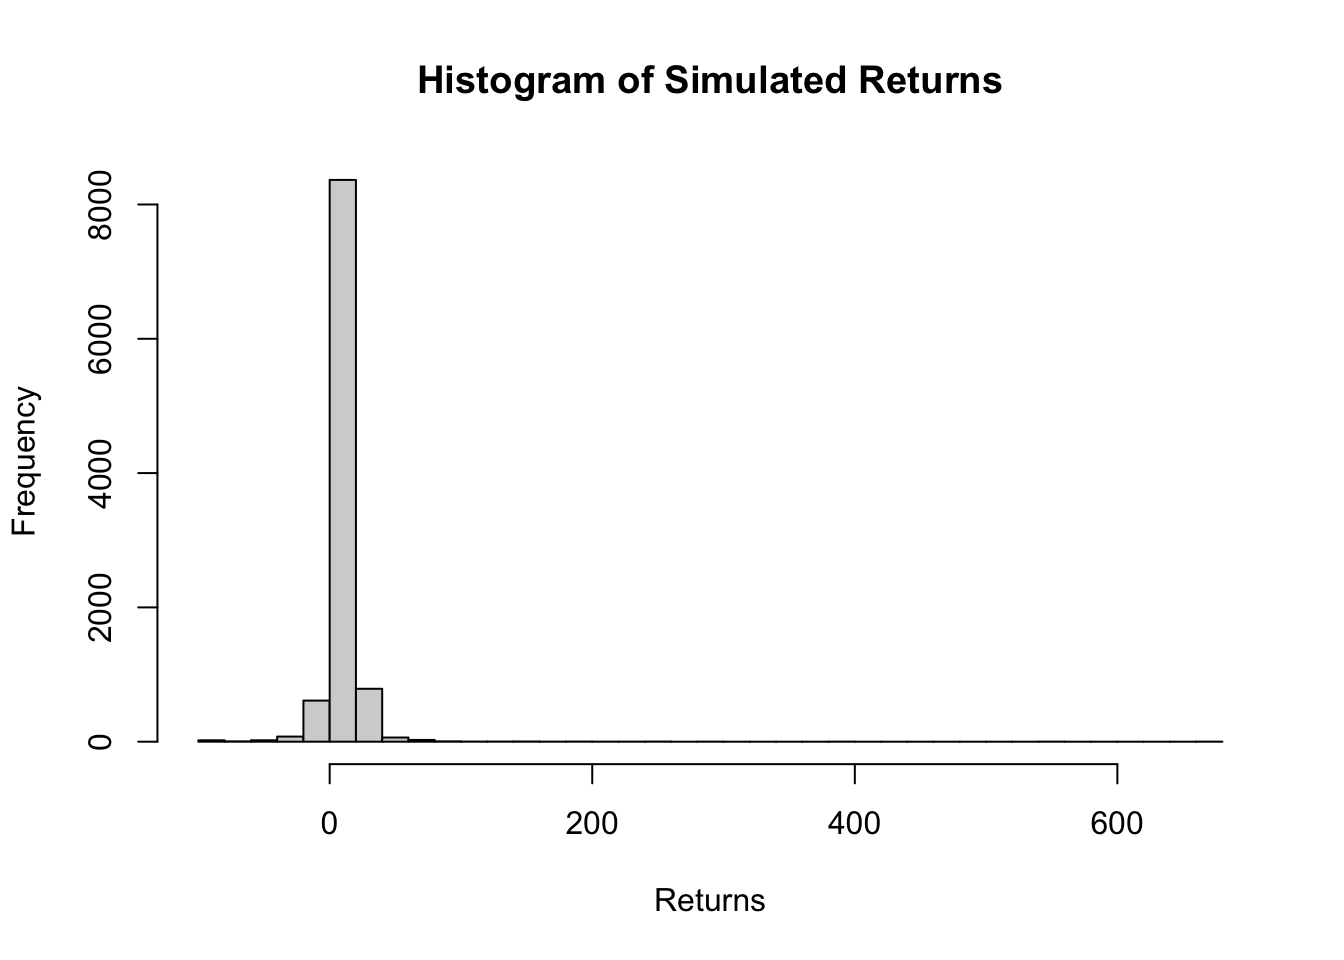
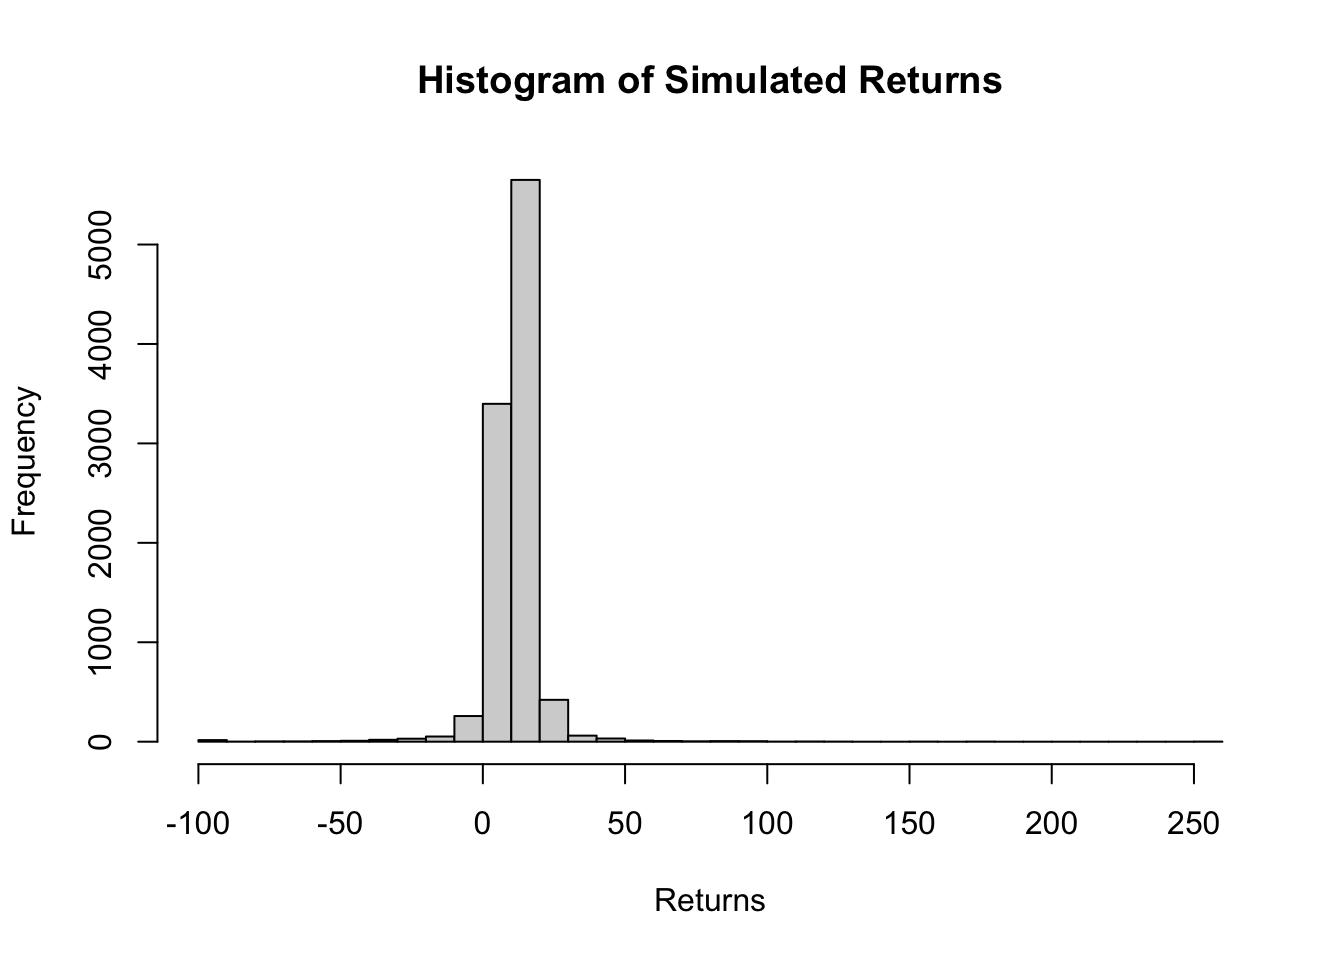
stats in drawdown

diff --git a/docs/Catallactics/Personal/levi.html b/docs/Catallactics/Personal/levi.html
@@ -954,38 +954,39 @@ cookieconsent.run({
 <div class="sourceCode cell-code" id="cb2"><pre class="sourceCode r code-with-copy"><code class="sourceCode r"><span id="cb2-1"><a href="#cb2-1" aria-hidden="true" tabindex="-1"></a><span class="fu">library</span>(stabledist)</span>
 <span id="cb2-2"><a href="#cb2-2" aria-hidden="true" tabindex="-1"></a></span>
 <span id="cb2-3"><a href="#cb2-3" aria-hidden="true" tabindex="-1"></a><span class="co"># Simulation parameters</span></span>
-<span id="cb2-4"><a href="#cb2-4" aria-hidden="true" tabindex="-1"></a>alpha <span class="ot">&lt;-</span> <span class="fl">1.505</span>  <span class="co"># Stability parameter</span></span>
-<span id="cb2-5"><a href="#cb2-5" aria-hidden="true" tabindex="-1"></a>beta <span class="ot">&lt;-</span> <span class="sc">-</span><span class="fl">0.084</span> <span class="co"># Negative skewness parameter (left-skewed)</span></span>
-<span id="cb2-6"><a href="#cb2-6" aria-hidden="true" tabindex="-1"></a>gamma <span class="ot">&lt;-</span> <span class="fl">0.006433654</span>  <span class="co"># Scale parameter</span></span>
-<span id="cb2-7"><a href="#cb2-7" aria-hidden="true" tabindex="-1"></a>delta <span class="ot">&lt;-</span> <span class="fl">0.0007449581</span> <span class="co"># Location parameter</span></span>
-<span id="cb2-8"><a href="#cb2-8" aria-hidden="true" tabindex="-1"></a></span>
-<span id="cb2-9"><a href="#cb2-9" aria-hidden="true" tabindex="-1"></a>n <span class="ot">&lt;-</span> <span class="dv">10000</span>  <span class="co"># Number of simulations</span></span>
-<span id="cb2-10"><a href="#cb2-10" aria-hidden="true" tabindex="-1"></a></span>
-<span id="cb2-11"><a href="#cb2-11" aria-hidden="true" tabindex="-1"></a><span class="co"># Generate samples from a stable distribution</span></span>
-<span id="cb2-12"><a href="#cb2-12" aria-hidden="true" tabindex="-1"></a>levy_samples <span class="ot">&lt;-</span> <span class="fu">rstable</span>(n, alpha, beta, gamma, delta)  </span>
-<span id="cb2-13"><a href="#cb2-13" aria-hidden="true" tabindex="-1"></a></span>
-<span id="cb2-14"><a href="#cb2-14" aria-hidden="true" tabindex="-1"></a><span class="co"># Truncate returns at -100%</span></span>
-<span id="cb2-15"><a href="#cb2-15" aria-hidden="true" tabindex="-1"></a>truncated_samples <span class="ot">&lt;-</span> <span class="fu">pmax</span>(levy_samples, <span class="sc">-</span><span class="dv">100</span>)</span>
-<span id="cb2-16"><a href="#cb2-16" aria-hidden="true" tabindex="-1"></a></span>
-<span id="cb2-17"><a href="#cb2-17" aria-hidden="true" tabindex="-1"></a><span class="co"># Adjust mean and standard deviation</span></span>
-<span id="cb2-18"><a href="#cb2-18" aria-hidden="true" tabindex="-1"></a>desired_mean <span class="ot">&lt;-</span> <span class="fl">10.8</span></span>
-<span id="cb2-19"><a href="#cb2-19" aria-hidden="true" tabindex="-1"></a>desired_sd <span class="ot">&lt;-</span> <span class="dv">21</span></span>
-<span id="cb2-20"><a href="#cb2-20" aria-hidden="true" tabindex="-1"></a></span>
-<span id="cb2-21"><a href="#cb2-21" aria-hidden="true" tabindex="-1"></a><span class="co"># Calculate current mean and standard deviation</span></span>
-<span id="cb2-22"><a href="#cb2-22" aria-hidden="true" tabindex="-1"></a>current_mean <span class="ot">&lt;-</span> <span class="fu">mean</span>(truncated_samples)</span>
-<span id="cb2-23"><a href="#cb2-23" aria-hidden="true" tabindex="-1"></a>current_sd <span class="ot">&lt;-</span> <span class="fu">sd</span>(truncated_samples)</span>
-<span id="cb2-24"><a href="#cb2-24" aria-hidden="true" tabindex="-1"></a></span>
-<span id="cb2-25"><a href="#cb2-25" aria-hidden="true" tabindex="-1"></a><span class="co"># Apply linear transformation to adjust mean and standard deviation</span></span>
-<span id="cb2-26"><a href="#cb2-26" aria-hidden="true" tabindex="-1"></a>adjusted_samples <span class="ot">&lt;-</span> (truncated_samples <span class="sc">-</span> current_mean) <span class="sc">*</span> (desired_sd <span class="sc">/</span> current_sd) <span class="sc">+</span> desired_mean</span>
-<span id="cb2-27"><a href="#cb2-27" aria-hidden="true" tabindex="-1"></a></span>
-<span id="cb2-28"><a href="#cb2-28" aria-hidden="true" tabindex="-1"></a><span class="co"># Ensure minimum value is -100 after truncation</span></span>
-<span id="cb2-29"><a href="#cb2-29" aria-hidden="true" tabindex="-1"></a>adjusted_samples <span class="ot">&lt;-</span> <span class="fu">pmax</span>(adjusted_samples, <span class="sc">-</span><span class="dv">100</span>)</span>
-<span id="cb2-30"><a href="#cb2-30" aria-hidden="true" tabindex="-1"></a></span>
-<span id="cb2-31"><a href="#cb2-31" aria-hidden="true" tabindex="-1"></a><span class="co"># Example: Simulate future returns over a period</span></span>
-<span id="cb2-32"><a href="#cb2-32" aria-hidden="true" tabindex="-1"></a>future_returns <span class="ot">&lt;-</span> adjusted_samples</span>
-<span id="cb2-33"><a href="#cb2-33" aria-hidden="true" tabindex="-1"></a></span>
-<span id="cb2-34"><a href="#cb2-34" aria-hidden="true" tabindex="-1"></a><span class="co"># Basic summary statistics</span></span>
-<span id="cb2-35"><a href="#cb2-35" aria-hidden="true" tabindex="-1"></a><span class="fu">cat</span>(<span class="st">"Summary Statistics:</span><span class="sc">\n</span><span class="st">"</span>)</span></code><button title="Copy to Clipboard" class="code-copy-button"><i class="bi"></i></button></pre></div>
+<span id="cb2-4"><a href="#cb2-4" aria-hidden="true" tabindex="-1"></a><span class="fu">set.seed</span>(<span class="dv">233</span>)</span>
+<span id="cb2-5"><a href="#cb2-5" aria-hidden="true" tabindex="-1"></a>alpha <span class="ot">&lt;-</span> <span class="fl">1.505</span>  <span class="co"># Stability parameter</span></span>
+<span id="cb2-6"><a href="#cb2-6" aria-hidden="true" tabindex="-1"></a>beta <span class="ot">&lt;-</span> <span class="sc">-</span><span class="fl">0.084</span> <span class="co"># Negative skewness parameter (left-skewed)</span></span>
+<span id="cb2-7"><a href="#cb2-7" aria-hidden="true" tabindex="-1"></a>gamma <span class="ot">&lt;-</span> <span class="fl">0.006433654</span>  <span class="co"># Scale parameter</span></span>
+<span id="cb2-8"><a href="#cb2-8" aria-hidden="true" tabindex="-1"></a>delta <span class="ot">&lt;-</span> <span class="fl">0.0007449581</span> <span class="co"># Location parameter</span></span>
+<span id="cb2-9"><a href="#cb2-9" aria-hidden="true" tabindex="-1"></a></span>
+<span id="cb2-10"><a href="#cb2-10" aria-hidden="true" tabindex="-1"></a>n <span class="ot">&lt;-</span> <span class="dv">10000</span>  <span class="co"># Number of simulations</span></span>
+<span id="cb2-11"><a href="#cb2-11" aria-hidden="true" tabindex="-1"></a></span>
+<span id="cb2-12"><a href="#cb2-12" aria-hidden="true" tabindex="-1"></a><span class="co"># Generate samples from a stable distribution</span></span>
+<span id="cb2-13"><a href="#cb2-13" aria-hidden="true" tabindex="-1"></a>levy_samples <span class="ot">&lt;-</span> <span class="fu">rstable</span>(n, alpha, beta, gamma, delta)  </span>
+<span id="cb2-14"><a href="#cb2-14" aria-hidden="true" tabindex="-1"></a></span>
+<span id="cb2-15"><a href="#cb2-15" aria-hidden="true" tabindex="-1"></a><span class="co"># Truncate returns at -100%</span></span>
+<span id="cb2-16"><a href="#cb2-16" aria-hidden="true" tabindex="-1"></a>truncated_samples <span class="ot">&lt;-</span> <span class="fu">pmax</span>(levy_samples, <span class="sc">-</span><span class="dv">100</span>)</span>
+<span id="cb2-17"><a href="#cb2-17" aria-hidden="true" tabindex="-1"></a></span>
+<span id="cb2-18"><a href="#cb2-18" aria-hidden="true" tabindex="-1"></a><span class="co"># Adjust mean and standard deviation (Historical)</span></span>
+<span id="cb2-19"><a href="#cb2-19" aria-hidden="true" tabindex="-1"></a>desired_mean <span class="ot">&lt;-</span> <span class="fl">10.8</span></span>
+<span id="cb2-20"><a href="#cb2-20" aria-hidden="true" tabindex="-1"></a>desired_sd <span class="ot">&lt;-</span> <span class="dv">21</span></span>
+<span id="cb2-21"><a href="#cb2-21" aria-hidden="true" tabindex="-1"></a></span>
+<span id="cb2-22"><a href="#cb2-22" aria-hidden="true" tabindex="-1"></a><span class="co"># Calculate current mean and standard deviation</span></span>
+<span id="cb2-23"><a href="#cb2-23" aria-hidden="true" tabindex="-1"></a>current_mean <span class="ot">&lt;-</span> <span class="fu">mean</span>(truncated_samples)</span>
+<span id="cb2-24"><a href="#cb2-24" aria-hidden="true" tabindex="-1"></a>current_sd <span class="ot">&lt;-</span> <span class="fu">sd</span>(truncated_samples)</span>
+<span id="cb2-25"><a href="#cb2-25" aria-hidden="true" tabindex="-1"></a></span>
+<span id="cb2-26"><a href="#cb2-26" aria-hidden="true" tabindex="-1"></a><span class="co"># Apply linear transformation to adjust mean and standard deviation</span></span>
+<span id="cb2-27"><a href="#cb2-27" aria-hidden="true" tabindex="-1"></a>adjusted_samples <span class="ot">&lt;-</span> (truncated_samples <span class="sc">-</span> current_mean) <span class="sc">*</span> (desired_sd <span class="sc">/</span> current_sd) <span class="sc">+</span> desired_mean</span>
+<span id="cb2-28"><a href="#cb2-28" aria-hidden="true" tabindex="-1"></a></span>
+<span id="cb2-29"><a href="#cb2-29" aria-hidden="true" tabindex="-1"></a><span class="co"># Ensure minimum value is -100 after truncation</span></span>
+<span id="cb2-30"><a href="#cb2-30" aria-hidden="true" tabindex="-1"></a>adjusted_samples <span class="ot">&lt;-</span> <span class="fu">pmax</span>(adjusted_samples, <span class="sc">-</span><span class="dv">100</span>)</span>
+<span id="cb2-31"><a href="#cb2-31" aria-hidden="true" tabindex="-1"></a></span>
+<span id="cb2-32"><a href="#cb2-32" aria-hidden="true" tabindex="-1"></a><span class="co"># Example: Simulate future returns over a period</span></span>
+<span id="cb2-33"><a href="#cb2-33" aria-hidden="true" tabindex="-1"></a>future_returns <span class="ot">&lt;-</span> adjusted_samples</span>
+<span id="cb2-34"><a href="#cb2-34" aria-hidden="true" tabindex="-1"></a></span>
+<span id="cb2-35"><a href="#cb2-35" aria-hidden="true" tabindex="-1"></a><span class="co"># Basic summary statistics</span></span>
+<span id="cb2-36"><a href="#cb2-36" aria-hidden="true" tabindex="-1"></a><span class="fu">cat</span>(<span class="st">"Summary Statistics:</span><span class="sc">\n</span><span class="st">"</span>)</span></code><button title="Copy to Clipboard" class="code-copy-button"><i class="bi"></i></button></pre></div>
 </details>
 <div class="cell-output cell-output-stdout">
 <pre><code>Summary Statistics:</code></pre>
@@ -995,8 +996,8 @@ cookieconsent.run({
 <div class="sourceCode cell-code" id="cb4"><pre class="sourceCode r code-with-copy"><code class="sourceCode r"><span id="cb4-1"><a href="#cb4-1" aria-hidden="true" tabindex="-1"></a><span class="fu">print</span>(<span class="fu">summary</span>(future_returns))</span></code><button title="Copy to Clipboard" class="code-copy-button"><i class="bi"></i></button></pre></div>
 </details>
 <div class="cell-output cell-output-stdout">
-<pre><code>   Min. 1st Qu.  Median    Mean 3rd Qu.    Max. 
--100.00    6.79   10.96   11.01   15.11  662.36 </code></pre>
+<pre><code>    Min.  1st Qu.   Median     Mean  3rd Qu.     Max. 
+-100.000    8.271   11.365   11.146   14.424  252.402 </code></pre>
 </div>
 <details class="code-fold">
 <summary>Code</summary>
@@ -1017,7 +1018,7 @@ cookieconsent.run({
 <span id="cb7-3"><a href="#cb7-3" aria-hidden="true" tabindex="-1"></a><span class="fu">cat</span>(<span class="fu">paste</span>(<span class="st">"P(Return &gt; 15) ="</span>, p_return_greater_15, <span class="st">"</span><span class="sc">\n</span><span class="st">"</span>))</span></code><button title="Copy to Clipboard" class="code-copy-button"><i class="bi"></i></button></pre></div>
 </details>
 <div class="cell-output cell-output-stdout">
-<pre><code>P(Return &gt; 15) = 0.2556 </code></pre>
+<pre><code>P(Return &gt; 15) = 0.213 </code></pre>
 </div>
 <details class="code-fold">
 <summary>Code</summary>
@@ -1025,7 +1026,7 @@ cookieconsent.run({
 <span id="cb9-2"><a href="#cb9-2" aria-hidden="true" tabindex="-1"></a><span class="fu">cat</span>(<span class="fu">paste</span>(<span class="st">"P(Return &gt; 30) ="</span>, p_return_greater_30, <span class="st">"</span><span class="sc">\n</span><span class="st">"</span>))</span></code><button title="Copy to Clipboard" class="code-copy-button"><i class="bi"></i></button></pre></div>
 </details>
 <div class="cell-output cell-output-stdout">
-<pre><code>P(Return &gt; 30) = 0.0231 </code></pre>
+<pre><code>P(Return &gt; 30) = 0.0134 </code></pre>
 </div>
 <details class="code-fold">
 <summary>Code</summary>
@@ -1034,7 +1035,7 @@ cookieconsent.run({
 <span id="cb11-3"><a href="#cb11-3" aria-hidden="true" tabindex="-1"></a><span class="fu">cat</span>(<span class="fu">paste</span>(<span class="st">"P(5 &lt; Return &lt;= 15) ="</span>, p_between_5_and_15, <span class="st">"</span><span class="sc">\n</span><span class="st">"</span>))</span></code><button title="Copy to Clipboard" class="code-copy-button"><i class="bi"></i></button></pre></div>
 </details>
 <div class="cell-output cell-output-stdout">
-<pre><code>P(5 &lt; Return &lt;= 15) = 0.5621 </code></pre>
+<pre><code>P(5 &lt; Return &lt;= 15) = 0.6792 </code></pre>
 </div>
 <details class="code-fold">
 <summary>Code</summary>
@@ -1042,7 +1043,7 @@ cookieconsent.run({
 <span id="cb13-2"><a href="#cb13-2" aria-hidden="true" tabindex="-1"></a><span class="fu">cat</span>(<span class="fu">paste</span>(<span class="st">"P(15 &lt; Return &lt;= 30) ="</span>, p_between_15_and_30, <span class="st">"</span><span class="sc">\n</span><span class="st">"</span>))</span></code><button title="Copy to Clipboard" class="code-copy-button"><i class="bi"></i></button></pre></div>
 </details>
 <div class="cell-output cell-output-stdout">
-<pre><code>P(15 &lt; Return &lt;= 30) = 0.2325 </code></pre>
+<pre><code>P(15 &lt; Return &lt;= 30) = 0.1996 </code></pre>
 </div>
 <details class="code-fold">
 <summary>Code</summary>
@@ -1050,7 +1051,7 @@ cookieconsent.run({
 <span id="cb15-2"><a href="#cb15-2" aria-hidden="true" tabindex="-1"></a><span class="fu">cat</span>(<span class="fu">paste</span>(<span class="st">"P(-5 &lt;= Return &lt;= 5) ="</span>, p_between_neg5_and_5, <span class="st">"</span><span class="sc">\n</span><span class="st">"</span>))</span></code><button title="Copy to Clipboard" class="code-copy-button"><i class="bi"></i></button></pre></div>
 </details>
 <div class="cell-output cell-output-stdout">
-<pre><code>P(-5 &lt;= Return &lt;= 5) = 0.1436 </code></pre>
+<pre><code>P(-5 &lt;= Return &lt;= 5) = 0.0849 </code></pre>
 </div>
 <details class="code-fold">
 <summary>Code</summary>
@@ -1058,7 +1059,7 @@ cookieconsent.run({
 <span id="cb17-2"><a href="#cb17-2" aria-hidden="true" tabindex="-1"></a><span class="fu">cat</span>(<span class="fu">paste</span>(<span class="st">"P(-15 &lt;= Return &lt;= -5) ="</span>, p_between_neg15_and_neg5, <span class="st">"</span><span class="sc">\n</span><span class="st">"</span>))</span></code><button title="Copy to Clipboard" class="code-copy-button"><i class="bi"></i></button></pre></div>
 </details>
 <div class="cell-output cell-output-stdout">
-<pre><code>P(-15 &lt;= Return &lt;= -5) = 0.0238 </code></pre>
+<pre><code>P(-15 &lt;= Return &lt;= -5) = 0.0126 </code></pre>
 </div>
 <details class="code-fold">
 <summary>Code</summary>
@@ -1066,7 +1067,7 @@ cookieconsent.run({
 <span id="cb19-2"><a href="#cb19-2" aria-hidden="true" tabindex="-1"></a><span class="fu">cat</span>(<span class="fu">paste</span>(<span class="st">"P(Return &lt; -15) ="</span>, p_less_neg15, <span class="st">"</span><span class="sc">\n</span><span class="st">"</span>))</span></code><button title="Copy to Clipboard" class="code-copy-button"><i class="bi"></i></button></pre></div>
 </details>
 <div class="cell-output cell-output-stdout">
-<pre><code>P(Return &lt; -15) = 0.0149 </code></pre>
+<pre><code>P(Return &lt; -15) = 0.0103 </code></pre>
 </div>
 <details class="code-fold">
 <summary>Code</summary>
@@ -1074,7 +1075,7 @@ cookieconsent.run({
 <span id="cb21-2"><a href="#cb21-2" aria-hidden="true" tabindex="-1"></a><span class="fu">cat</span>(<span class="fu">paste</span>(<span class="st">"P(Return &lt; -30) ="</span>, p_less_neg30, <span class="st">"</span><span class="sc">\n</span><span class="st">"</span>))</span></code><button title="Copy to Clipboard" class="code-copy-button"><i class="bi"></i></button></pre></div>
 </details>
 <div class="cell-output cell-output-stdout">
-<pre><code>P(Return &lt; -30) = 0.0071 </code></pre>
+<pre><code>P(Return &lt; -30) = 0.0057 </code></pre>
 </div>
 <details class="code-fold">
 <summary>Code</summary>
@@ -1082,23 +1083,31 @@ cookieconsent.run({
 <span id="cb23-2"><a href="#cb23-2" aria-hidden="true" tabindex="-1"></a><span class="fu">cat</span>(<span class="fu">paste</span>(<span class="st">"P(Return &lt; -60) ="</span>, p_less_neg60, <span class="st">"</span><span class="sc">\n</span><span class="st">"</span>))</span></code><button title="Copy to Clipboard" class="code-copy-button"><i class="bi"></i></button></pre></div>
 </details>
 <div class="cell-output cell-output-stdout">
-<pre><code>P(Return &lt; -60) = 0.0026 </code></pre>
+<pre><code>P(Return &lt; -60) = 0.0023 </code></pre>
 </div>
 </div>
 <section id="summary" class="level3">
 <h3 class="anchored" data-anchor-id="summary">Summary</h3>
-<p>In summary, the simulated returns indicate a distribution centered around a mean of approximately 11.09, with a minimum truncated value of -100 and a maximum value of 505.309.</p>
-<p>The probability calculations reveal that there is a:</p>
+<p><strong>The simulated returns exhibit the following characteristics:</strong></p>
 <ul>
-<li><p>31.53% chance that the return will exceed 15,</p></li>
-<li><p>3.81% chance that the return will exceed 30,</p></li>
-<li><p>46.62% chance that the return will fall between 5 and 15,</p></li>
-<li><p>27.72% chance that the return will fall between 15 and 30,</p></li>
-<li><p>16.21% chance that the return will fall between -5 and 5,</p></li>
-<li><p>3.06% chance that the return will fall between -15 and -5,</p></li>
-<li><p>2.58% chance that the return will be less than -15,</p></li>
-<li><p>1.26% chance that the return will be less than -30, and</p></li>
-<li><p>0.58% chance that the return will be less than -60.</p></li>
+<li><p><strong>Minimum</strong>: The lowest return observed after truncation is -100, indicating that no return falls below this threshold due to truncation.</p></li>
+<li><p><strong>1st Quartile</strong>: 25% of the returns fall below this value.</p></li>
+<li><p><strong>Median</strong>: 50% of the returns fall below this value, indicating the central tendency of the distribution.</p></li>
+<li><p><strong>Mean</strong>: The average return is approximately 11.146, representing the central tendency of the distribution.</p></li>
+<li><p><strong>3rd Quartile</strong>: 75% of the returns fall below this value.</p></li>
+<li><p><strong>Maximum</strong>: The highest return observed after truncation is 252.402, indicating that no return exceeds this threshold due to truncation.</p></li>
+</ul>
+<p>The probability calculations reveal the likelihood of observing returns within specific ranges:</p>
+<ul>
+<li><p>There is a 21.3% chance that the return will exceed 15.</p></li>
+<li><p>There is a 1.34% chance that the return will exceed 30.</p></li>
+<li><p>There is a 67.92% chance that the return will fall between 5 and 15.</p></li>
+<li><p>There is a 19.96% chance that the return will fall between 15 and 30.</p></li>
+<li><p>There is an 8.49% chance that the return will fall between -5 and 5.</p></li>
+<li><p>There is a 1.26% chance that the return will fall between -15 and -5.</p></li>
+<li><p>There is a 1.03% chance that the return will be less than -15.</p></li>
+<li><p>There is a 0.57% chance that the return will be less than -30.</p></li>
+<li><p>There is a 0.23% chance that the return will be less than -60.</p></li>
 </ul>
 </section>
 </section>
@@ -1136,14 +1145,14 @@ cookieconsent.run({
 <span id="cb25-16"><a href="#cb25-16" aria-hidden="true" tabindex="-1"></a><span class="fu">cat</span>(<span class="st">"VaR (95% confidence level) ="</span>, <span class="fu">round</span>(VaR_95_rupees, <span class="dv">2</span>), <span class="st">"rupees</span><span class="sc">\n</span><span class="st">"</span>)</span></code><button title="Copy to Clipboard" class="code-copy-button"><i class="bi"></i></button></pre></div>
 </details>
 <div class="cell-output cell-output-stdout">
-<pre><code>VaR (95% confidence level) = -2.83 rupees</code></pre>
+<pre><code>VaR (95% confidence level) = 1.5 rupees</code></pre>
 </div>
 <details class="code-fold">
 <summary>Code</summary>
 <div class="sourceCode cell-code" id="cb27"><pre class="sourceCode r code-with-copy"><code class="sourceCode r"><span id="cb27-1"><a href="#cb27-1" aria-hidden="true" tabindex="-1"></a><span class="fu">cat</span>(<span class="st">"CVaR (95% confidence level) ="</span>, <span class="fu">round</span>(CVaR_95_rupees, <span class="dv">2</span>), <span class="st">"rupees</span><span class="sc">\n</span><span class="st">"</span>)</span></code><button title="Copy to Clipboard" class="code-copy-button"><i class="bi"></i></button></pre></div>
 </details>
 <div class="cell-output cell-output-stdout">
-<pre><code>CVaR (95% confidence level) = -17.08 rupees</code></pre>
+<pre><code>CVaR (95% confidence level) = -11.61 rupees</code></pre>
 </div>
 </div>
 <p>In this scenario, we can see that CVaR can be huge and can potentially wipe out the entire capital.</p>

diff --git a/docs/posts/montecarlo.html b/docs/posts/montecarlo.html
@@ -993,7 +993,7 @@ Income distribution is not normal
 </details>
 <div class="cell-output cell-output-stdout">
 <pre><code>     Min.   1st Qu.    Median      Mean   3rd Qu.      Max. 
-   197035    295518    343755    593490    441464 372750921 </code></pre>
+2.091e+05 2.972e+05 3.454e+05 9.714e+05 4.403e+05 4.032e+09 </code></pre>
 </div>
 <details open="" class="code-fold">
 <summary>Code</summary>
@@ -1001,7 +1001,7 @@ Income distribution is not normal
 </details>
 <div class="cell-output cell-output-stdout">
 <pre><code>   Min. 1st Qu.  Median    Mean 3rd Qu.    Max. 
-  62173   64084   64516   64523   64958   67339 </code></pre>
+  62203   64059   64492   64495   64919   67056 </code></pre>
 </div>
 <details open="" class="code-fold">
 <summary>Code</summary>
@@ -1009,7 +1009,7 @@ Income distribution is not normal
 </details>
 <div class="cell-output cell-output-stdout">
 <pre><code>     Min.   1st Qu.    Median      Mean   3rd Qu.      Max. 
-7.738e+05 3.295e+06 5.640e+06 2.982e+07 1.214e+07 3.724e+10 </code></pre>
+8.950e+05 3.384e+06 5.705e+06 6.759e+07 1.204e+07 4.031e+11 </code></pre>
 </div>
 </div>
 </section>

diff --git a/docs/Revision notes/Diagrams/diagrams.html b/docs/Revision notes/Diagrams/diagrams.html
@@ -1273,7 +1273,7 @@ window.document.addEventListener("DOMContentLoaded", function (event) {
 </div>
   </div>
 </footer>
-<script>var lightboxQuarto = GLightbox({"closeEffect":"zoom","selector":".lightbox","openEffect":"zoom","descPosition":"bottom","loop":false});
+<script>var lightboxQuarto = GLightbox({"openEffect":"zoom","closeEffect":"zoom","descPosition":"bottom","loop":false,"selector":".lightbox"});
 window.onload = () => {
   lightboxQuarto.on('slide_before_load', (data) => {
     const { slideIndex, slideNode, slideConfig, player, trigger } = data;
